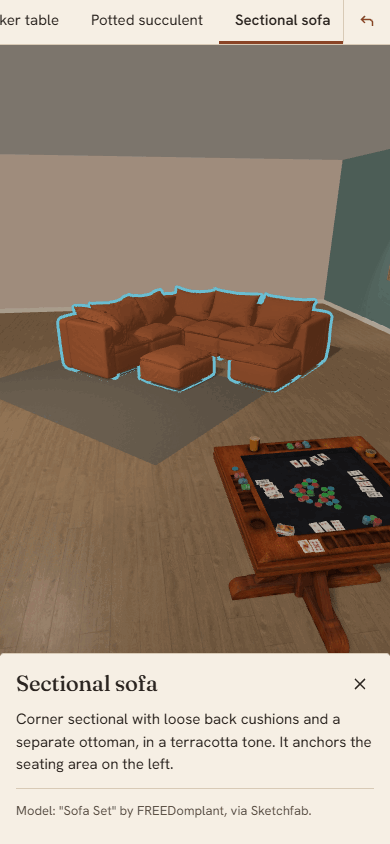
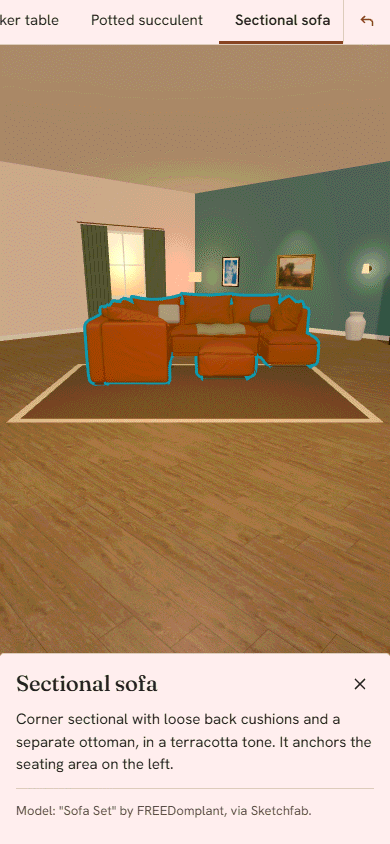
docs: README con idiomas, créditos de láminas (Atkins) y lino CC0, cifras de rendimiento de la spec 003; media, tour.gif y og.png nuevos (spec 003 T-380..T-381)

diff --git a/README.md b/README.md
@@ -18,10 +18,15 @@ An interactive 3D living room that runs entirely in the browser. Walk around by 
 |              ![Desktop view of the room](docs/media/desktop-overview-1280x800.png)               |          ![Mobile view of the room](docs/media/mobile-overview-390x844.png)          |
 | ![A selected piece of furniture with its description](docs/media/desktop-furniture-1280x800.png) | ![A selected piece of furniture on a phone](docs/media/mobile-furniture-390x844.png) |
 
+The interface is available in English and Spanish ([Languages](#languages)); here the same view in Spanish:
+
+![The sofa selected, with the interface in Spanish](docs/media/desktop-furniture-es-1280x800.png)
+
 ## Table of contents
 
 - [Features](#features)
 - [Controls](#controls)
+- [Languages](#languages)
 - [Tech stack](#tech-stack)
 - [Getting started](#getting-started)
 - [Scripts](#scripts)
@@ -40,9 +45,10 @@ An interactive 3D living room that runs entirely in the browser. Walk around by 
 - **Orbit, pan and zoom** with mouse, touch (one-finger rotate, two-finger pan and pinch) or the arrow keys.
 - **Accessible alternative**: a list of the furniture (plus an _Initial view_ button) works with the keyboard and screen readers; the description panel is announced as a dialog and closes with `Esc`.
 - **Responsive**: the initial framing adapts to portrait screens so all three pieces stay visible on a phone.
-- **Realistic lighting**: soft shadows, matte walls and tuned material for the sofa.
+- **Cozy, finished room**: sage accent wall, wall prints, curtains, lamps and soft textiles, with warm light and soft shadows.
+- **English and Spanish**: detected from the browser and switchable with the EN | ES selector.
 - **Loading and error states**: a progress screen while models download, and clear messages (with a retry button) if WebGL is unavailable, the context is lost or a model fails to load.
-- **Light assets**: the three original models were reduced from about 51 MB to about 2.4 MB, and the whole `src/assets` folder (seven models, room textures, fonts) weighs about 3.7 MB (see [Performance](#performance)).
+- **Light assets**: the three original models were reduced from about 51 MB to about 2.4 MB, and the whole `src/assets` folder (seven models, textures, fonts, social image) weighs about 3.9 MB (see [Performance](#performance)).
 
 ## Controls
 
@@ -57,6 +63,17 @@ An interactive 3D living room that runs entirely in the browser. Walk around by 
 | `Home`                                      | Return to the initial view |
 
 The **? Help** button in the corner reopens these instructions at any time.
+
+## Languages
+
+The interface is available in English and Spanish.
+
+- **Detection.** On the first visit the language is the first one in the browser's preference list that the app supports (`navigator.languages`); anything else falls back to English.
+- **Selector.** The **EN | ES** switch next to the title changes the language at once and remembers it in `localStorage` (key `room-tour.locale`), so it wins over detection on later visits. It also updates `<html lang>`, the page title and the meta description.
+- **Dictionaries.** All user-facing text lives in `src/app/i18n/`: `en.ts` is bundled with the app, `es.ts` is a separate chunk loaded only when needed. Both implement the `Messages` type in `messages.ts`, so a missing key is a compile error. If the Spanish chunk fails to load, the app stays in English and shows a non-blocking notice.
+- **Add or change a string.** Add the key to the `Messages` type, then to `en.ts` and `es.ts`, and use it through `LocaleService.messages()`. `npm test` checks that both dictionaries have the same keys.
+- **Add a language.** Add its code to `Locale`, `LOCALES` and `LOCALE_OPTIONS` in `messages.ts`, create a dictionary (copy `es.ts`) and register its lazy import in `locale.service.ts`.
+- **Social preview.** The Open Graph and Twitter tags in `src/index.html` and `src/assets/brand/og.png` are static, so they stay in English.
 
 ## Tech stack
 
@@ -119,7 +136,8 @@ Services (providedIn root, idempotent dispose)
   RoomBuilderService       floor, walls, ceiling and lights from configuration
   ViewerStateService       signals: load progress/status, error, selected, hovered
 
-config/   scene.config.ts (room, lights, models)  ·  ui-text.ts (all user-facing text)
+config/   scene.config.ts (room, lights, models)  ·  decor.config.ts (decor pieces)
+i18n/     LocaleService  ·  en.ts / es.ts (all user-facing text)
 ```
 
 Source layout:
@@ -128,14 +146,15 @@ Source layout:
 src/app/
 ├── components/   UI components
 ├── services/     3D and state services, each with its spec
-├── config/       scene configuration and UI text
+├── config/       scene and decor configuration
+├── i18n/         EN and ES dictionaries and the locale service
 └── interfaces/   shared types
 src/assets/
 ├── models/       optimized glTF models (sofa, poker_table, bookshelf, landscape_painting, wall_clock, succulent, ceramic_vase)
-├── textures/     floor and rug textures (WebP)
+├── textures/     floor, rug, wall print and linen textures (WebP)
 ├── fonts/        Fraunces and Hanken Grotesk (WOFF2) and their OFL license
 └── brand/        favicon, touch icon and social preview image
-docs/             assets pipeline, screenshots and baseline captures
+docs/             assets pipeline, README images and baseline captures
 ```
 
 ## Technical decisions
@@ -146,21 +165,31 @@ docs/             assets pipeline, screenshots and baseline captures
 - **Camera moves to what you click.** Floor clicks teleport with an eased animation clamped to the room bounds; furniture clicks frame the piece.
 - **Assets optimized in place.** WebP textures and meshopt-compressed geometry, without KTX2 (no extra transcoder to ship). The originals are kept in git history. See [docs/assets-pipeline.md](docs/assets-pipeline.md) for how to regenerate them.
 - **No UI component library.** The interface is a few small custom components, which keeps the bundle small and the visuals consistent.
-- **English UI, centralized text.** All user-facing strings live in `src/app/config/ui-text.ts`.
+- **Two languages, centralized text.** All user-facing strings live in typed dictionaries in `src/app/i18n/`; Spanish loads on demand, so English users never download it.
 
 ## Performance
 
 Measured on a production build (`npm run build`):
 
-| Metric                    | Value                                |
-| ------------------------- | ------------------------------------ |
-| Initial JavaScript bundle | 873 kB raw, about 195 kB transferred |
-| 3D models (all seven)     | 3,100,101 B (about 3.1 MB)           |
-| Room textures             | 400,862 B (about 0.4 MB)             |
-| Fonts                     | 106,659 B (about 0.1 MB)             |
-| `src/assets` in total     | 3,717,013 B (about 3.7 MB)           |
+| Metric                         | Value                                     |
+| ------------------------------ | ----------------------------------------- |
+| Initial JavaScript bundle      | 886.94 kB raw, about 202.5 kB transferred |
+| 3D models (all seven)          | 3,100,101 B (about 3.1 MB)                |
+| Textures (room, prints, linen) | 687,388 B (about 0.7 MB)                  |
+| Fonts                          | 106,659 B (about 0.1 MB)                  |
+| `src/assets` in total          | 4,044,814 B (about 3.9 MB)                |
 
 The three original models went from about 51 MB to about 2.4 MB. Per-model sizes before and after are in [docs/assets-pipeline.md](docs/assets-pipeline.md).
+
+The Spanish dictionary (3.71 kB) and the decor builder (8.30 kB) load as separate chunks. Other measurements on the final build:
+
+| Metric                                                   | Value                                                                   |
+| -------------------------------------------------------- | ----------------------------------------------------------------------- |
+| Frame time, mobile CPU throttled 4×                      | 14.05 ms median (gate: under 16.7 ms); desktop 1.75 ms                  |
+| Lighthouse accessibility (EN and ES, mobile and desktop) | 100 in all four runs                                                    |
+| Lighthouse performance                                   | 28 mobile / 56 desktop in EN, 27 / 54 in ES (throttled, shared machine) |
+| Colour contrast (WCAG AA)                                | 12 of 12 token pairs pass                                               |
+| Lights                                                   | 7, only one casts shadows                                               |
 
 ### How the assets are optimized
 
@@ -193,6 +222,20 @@ The decor and the floor and rug textures come from [Poly Haven](https://polyhave
 | Laminate Floor 02      | Dario Barresi, Charlotte Baglioni | [Poly Haven](https://polyhaven.com/a/laminate_floor_02)      |
 | Poly Wool Herringbone  | colormass, Rico Cilliers          | [Poly Haven](https://polyhaven.com/a/poly_wool_herringbone)  |
 
+### Wall prints and fabric
+
+The four botanical prints hanging in the room are public-domain works, reproduced from [Wikimedia Commons](https://commons.wikimedia.org/) (resized and converted to WebP). The linen texture is CC0.
+
+| Piece                         | Author                   | Date    | Source and license                                                                                                                     |
+| ----------------------------- | ------------------------ | ------- | -------------------------------------------------------------------------------------------------------------------------------------- |
+| _Spiraea aruncus (Tyrol)_     | Anna Atkins              | 1851–54 | [Commons](<https://commons.wikimedia.org/wiki/File:Spiraea_aruncus_(Tyrol)_MET_DT5664.jpg>), cyanotype, The Met, CC0                   |
+| _Osmunda regalis (Australia)_ | Anna Atkins              | c. 1850 | [Commons](<https://commons.wikimedia.org/wiki/File:Anna_Atkins_-_Osmunda_Rigalis_(Australia)_-_Google_Art_Project.jpg>), public domain |
+| _Pteris aquilina_             | Anna Atkins              | c. 1850 | [Commons](https://commons.wikimedia.org/wiki/File:Anna_Atkins_-_Pteris_aquilina_-_Google_Art_Project.jpg), cyanotype, public domain    |
+| _Felce_                       | William Henry Fox Talbot | 1839    | [Commons](https://commons.wikimedia.org/wiki/File:Felce_MET_DP202191.jpg), salted paper print, The Met, CC0                            |
+| Rough Linen (fabric texture)  | colormass, Rico Cilliers |         | [Poly Haven](https://polyhaven.com/a/rough_linen), CC0                                                                                 |
+
+Atkins and Fox Talbot died in 1871 and 1877, so their work is in the public domain; the Met releases its scans under CC0. None of the assets in the project require attribution (there are no CC-BY pieces); they are credited as a courtesy. Sources, exact files and the commands that reproduce the textures are in [docs/assets-pipeline.md](docs/assets-pipeline.md).
+
 ### Fonts
 
 [Fraunces](https://github.com/undercasetype/Fraunces) (headings) and [Hanken Grotesk](https://github.com/marcologous/hanken-grotesk) (interface text) are licensed under the SIL Open Font License 1.1. The license text is in [src/assets/fonts/OFL.txt](src/assets/fonts/OFL.txt).
@@ -203,7 +246,7 @@ Setup, commands, code standards and the commit format are in [CONTRIBUTING.md](C
 
 ## License
 
-The source code is released under the [MIT License](LICENSE). The 3D models, textures and fonts keep their own licenses (see above).
+The source code is released under the [MIT License](LICENSE). The 3D models, textures, prints and fonts keep their own licenses (see above).
 
 ## Author
 
